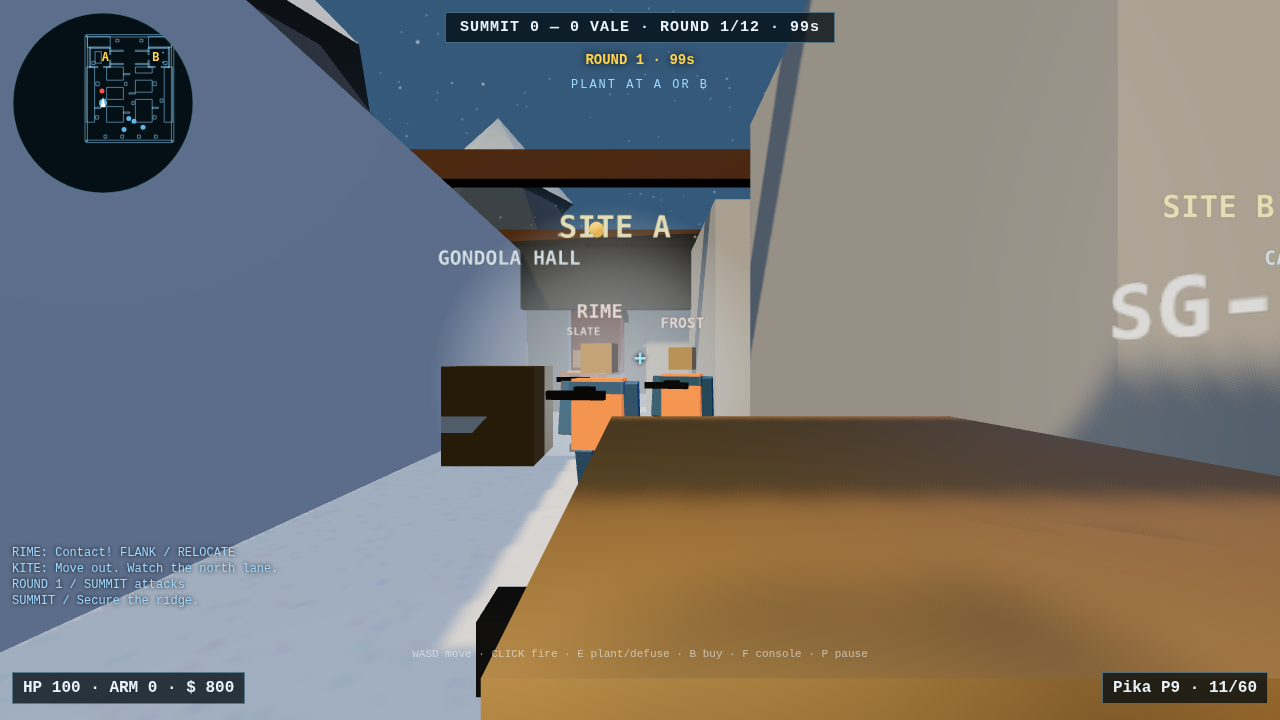
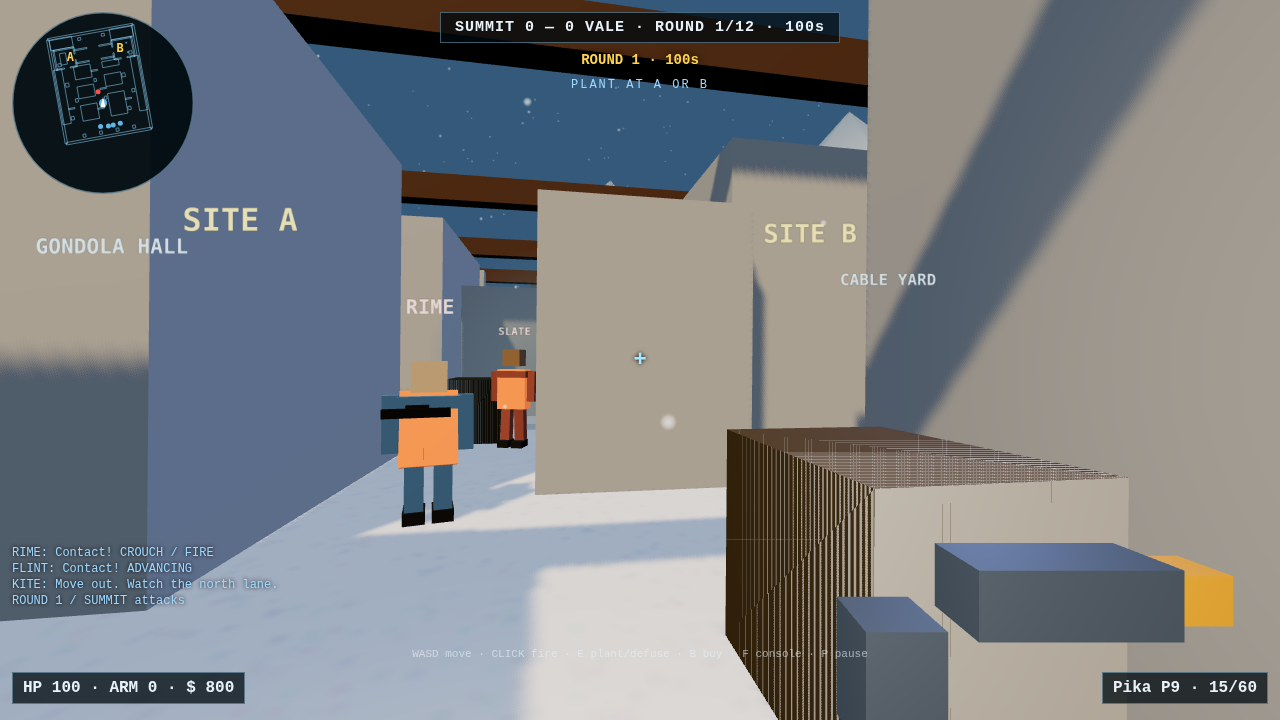
Verify + fix: FPP soldier hidden, gun visible, Mid fight + site-A plant shots
- view.js: hide the player's own soldier in FPP (bug 21, it rendered as a
  dark bar across the bottom of every first-person shot); bake the new
  Mid-lane fight and south-entry plant staging into stageShot (play/end);
  plant staging holds VALE fire (react/cool) so the still is not ruined
  by the damage vignette, and nudges the bomb light to its bright phase.
- models.js: view-model gun parts skip frustum culling (camera children
  were culled); gun body back to dark slate so it reads against snow and
  white crates instead of dissolving into them.
- index.html: inline favicon, no more 404.
- screenshots: re-captured in real WebGL at 1280x720, both under 256 KiB.

diff --git a/game/view.js b/game/view.js
@@ -29,9 +29,11 @@ export function view(s, prefs) {
 
   const scene = world();
   const camera = new THREE.PerspectiveCamera(prefs.fov, innerWidth / innerHeight, 0.05, 220);
-  // A small warm fill light rides with the camera so the view-model gun and
-  // nearby props are never pitch black.
-  const camLight = new THREE.PointLight(0xfff2dd, 0.9, 3, 1.5);
+  // A warm fill light rides with the camera so the view-model gun and
+  // nearby props never go pitch black. It has to be strong (the gun's
+  // materials are dark and ACES crushes the mids): at 0.9 the receiver
+  // read as a flat black slab in the screenshots.
+  const camLight = new THREE.PointLight(0xfff2dd, 2.2, 4, 1.5);
   camera.add(camLight);
   const motion = viewMotion();
   let gunMesh = null;
@@ -72,7 +74,10 @@ export function view(s, prefs) {
     smokeMap = new THREE.CanvasTexture(smokeCanvas);
   }
   const smokeMat = new THREE.SpriteMaterial({
-    color: 0xcfd8dc, transparent: true, opacity: 0.55, depthWrite: false,
+    // Dark slate, not white: against snow and pale walls a white cloud is
+    // invisible. A smoke grenade reads as a grey cloud, so the sprite is
+    // a mid-dark blue-grey at high opacity.
+    color: 0x5a6a75, transparent: true, opacity: 0.75, depthWrite: false,
     ...(smokeMap ? { map: smokeMap } : {}),
   });
   for (let i = 0; i < 8; i++) {
@@ -119,23 +124,43 @@ export function view(s, prefs) {
       p.x = -14; p.z = 0; aim(-Math.PI / 2, 0);
       staged = true;
     } else if (shotMode === 'play' && s.phase === 'live') {
-      // A-long, looking east toward site A: a clean open sightline (the Mid
-      // baffles block the equivalent Mid shot), enemies in the open ahead.
-      p.x = -6; p.z = -11; aim(-Math.PI / 2, 0);
-      const spots = [[0, -11], [2, -10], [4, -12]];
+      // Mid lane, looking east-southeast: the sunlit lane, both site signs,
+      // the ridge and the sky in frame, three VALE soldiers in the open
+      // ahead. (A-long puts the camera in the north wing's shadow with a
+      // cargo crate in the foreground.) One smoke cloud drifts behind the
+      // soldiers so it frames them instead of veiling them; tracers run
+      // from the player's muzzle out and from a soldier back in.
+      p.x = -8; p.z = 0; aim(-1.75, 0);
+      const spots = [[-3, -1.2], [-1, 1], [1, -0.8]];
       for (let i = 0; i < 3; i++) {
         const e = s.actors[5 + i];
         e.x = spots[i][0]; e.z = spots[i][1]; e.alive = true;
       }
-      s.effects.push({ x: p.x, z: p.z, y: 1.6, ex: 0, ez: -11, ey: 1.5, life: 5, team: 0, shooter: 0 });
-      s.smokes.push({ x: 2, z: -11.5, life: 15 });
+      s.effects.push({ x: p.x, z: p.z, y: 1.5, ex: -3, ez: -1.2, ey: 1.4, life: 5, team: 0, shooter: 0 });
+      s.effects.push({ x: -1, z: 1, y: 1.5, ex: p.x, ez: p.z, ey: 1.5, life: 5, team: 1, shooter: 5 });
+      s.smokes.push({ x: 3, z: 0, life: 15 });
       staged = true;
     } else if (shotMode === 'end' && s.phase === 'live') {
-      // Outside site A, looking in through the west entry: the planted
-      // charge, the red gondola cabin and the site signage all in frame
-      // (standing inside puts the camera under the hall canopy).
-      p.x = 6; p.z = -12; aim(-Math.PI / 2, 0);
+      // South entry of site A, looking north through the gap: the planted
+      // charge in front of the red gondola cabin, GONDOLA HALL signage
+      // above, two defenders closing in. Standing a metre west of the
+      // entry's centre line keeps the fence post off the charge.
+      p.x = 12; p.z = -5.5; aim(-0.22, 0);
       s.bomb = { x: 13, z: -10, fuse: 30 };
+      // Hold fire while the still is taken: the defenders are metres away
+      // with a clear line of sight, and a hit would light the damage
+      // vignette across the frame. Reaction delay is ~0.25 s, so a -30 s
+      // head start plus a long cooldown keeps every VALE bot quiet.
+      // Staging only — this branch never runs without ?shot=end.
+      for (const e of s.actors.slice(5)) { e.react = -30; e.cool = 30; }
+      // Bright phase for the charge's blinking light, so the amber dot
+      // reads in the still.
+      if (Math.sin(s.t * 6) <= 0) s.t += Math.PI / 6;
+      const guards = [[11.5, -9], [15, -11]];
+      for (let i = 0; i < 2; i++) {
+        const e = s.actors[5 + i];
+        e.x = guards[i][0]; e.z = guards[i][1]; e.alive = true; e.yaw = Math.PI;
+      }
       staged = true;
     }
   }
@@ -231,6 +256,11 @@ export function view(s, prefs) {
     for (const a of s.actors) {
       const g = animatedSoldier(a, s.t, dt);
       if (g && !g.parent) scene.scene.add(g);
+      // First person hides the player's own soldier: its held gun hangs
+      // across the bottom of the screen as a black bar (the view-model gun
+      // is the separate weaponModel on the camera). A dead player's body
+      // stays visible for the spectator view, and TPP keeps the soldier.
+      if (g && a.id === 0 && p.alive && cameraMode === 'fpp') g.visible = false;
     }
     // Camera.
     if (!p.alive) {
@@ -279,7 +309,7 @@ export function view(s, prefs) {
       const sprite = smokeSprites[si++];
       sprite.position.set(c.x, 1.2, c.z);
       sprite.visible = true;
-      sprite.material.opacity = Math.min(0.55, c.life / 15 * 0.55);
+      sprite.material.opacity = Math.min(0.75, c.life / 15 * 0.75);
     }
     for (; si < smokeSprites.length; si++) smokeSprites[si].visible = false;
     // Planted charge model + blinking light.

diff --git a/game/models.js b/game/models.js
@@ -13,18 +13,41 @@ const PART = {
   sight: [0.1, 0.07, 0.07, 0.12, 0.09, 0],
 };
 
-// Build the view model for weapon index w (0..4). group is positioned by
-// view.js each frame (ADS, recoil, reload sway).
-export function weaponModel(w, color = 0x55606c) {
+// View-model materials: the gun sits half a metre from the camera, so it
+// has to read at a glance in blue hour. A pale steel body with almost no
+// metalness — metal kills the diffuse and goes black under ACES tone
+// mapping — plus a faint emissive lift keeps the receiver visible even in
+// the lane shadows; the dark furniture is a mid grey for the same reason.
+// The orange muzzle accent stays: it is the one warm note on the gun.
+export function weaponModel(w, color = 0x39424e) {
   const group = new THREE.Group();
-  const body = new THREE.MeshStandardMaterial({ color, roughness: 0.6, metalness: 0.35 });
-  const dark = new THREE.MeshStandardMaterial({ color: 0x2a2f36, roughness: 0.7, metalness: 0.25 });
-  const accent = new THREE.MeshStandardMaterial({ color: 0xc9802a, roughness: 0.5, metalness: 0.4 });
+  // Dark slate, not pale grey: the map is snow, white crates and pale
+  // walls, and a light-grey gun dissolved into them (it sat exactly over
+  // the white crate in the Mid-lane fight shot). Dark slate reads against
+  // snow and beige alike, and the camera fill light keeps it from going
+  // pitch black the way the old dark receiver did.
+  const body = new THREE.MeshStandardMaterial({
+    color, roughness: 0.55, metalness: 0.08,
+    emissive: 0x39434d, emissiveIntensity: 0.6,
+  });
+  const dark = new THREE.MeshStandardMaterial({
+    color: 0x4d5860, roughness: 0.65, metalness: 0.1,
+    emissive: 0x181d22, emissiveIntensity: 0.6,
+  });
+  const accent = new THREE.MeshStandardMaterial({
+    color: 0xe09a2e, roughness: 0.45, metalness: 0.3,
+    emissive: 0x7a4d10, emissiveIntensity: 0.4,
+  });
   const add = (part, material = body) => {
     const [w, h, d, x, y, z] = part;
     const mesh = new THREE.Mesh(new THREE.BoxGeometry(w, h, d), material);
     mesh.position.set(x, y, z);
     mesh.castShadow = true;
+    // The view-model gun hangs off the camera, and the renderer culls it
+    // anyway (its bounds sit right at the frustum's apex), so the weapon
+    // silently vanishes from first-person screenshots. Camera children
+    // are a handful of tiny boxes; always drawing them costs nothing.
+    mesh.frustumCulled = false;
     group.add(mesh);
     return mesh;
   };

diff --git a/game/index.html b/game/index.html
@@ -4,6 +4,7 @@
 <meta charset="utf-8">
 <meta name="viewport" content="width=device-width, initial-scale=1, maximum-scale=1, user-scalable=no">
 <title>SNOWLINE — Tactical FPS</title>
+<link rel="icon" href="data:,">
 <link rel="stylesheet" href="style.css">
 <script type="importmap">
 { "imports": { "three": "./vendor/three/three.module.min.js" } }
